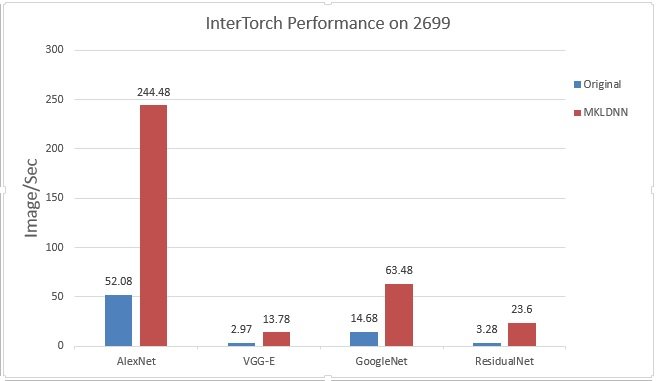
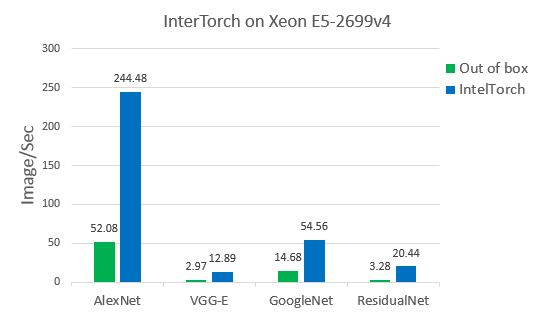
udpate performance

diff --git a/README.md b/README.md
@@ -1,10 +1,10 @@
-# Torch-MKLDNN-benchmark
+# IntelTorch-benchmark
 
-To run the original performance, use: th benchmark_nn.lua
+To run the original Torch performance, use: th benchmark_nn.lua
 
-To run the Torch+MKLDNN performance, use: ./run.sh or th benchmark_mkldnn.lua
+To run the IntelTorch performance, use: ./run.sh or th benchmark_mkldnn.lua
 
-Performance of Torch+MKLDNN compared with original torch is as follows:
+Compared to the original Torch, Intel Torch gets 4.66x speedup.The performance is as follows:
 
 ##Environment:
 
@@ -13,10 +13,6 @@ Hardware: 2 * Intel(R) Xeon(R) CPU E5-2699 v4 @ 2.20GHz, 128G RAM
 Software:Ubuntu 14.04.4, MKL 2017beta.
 
 ## Performance
-
-The performance is the time(ms):
-
-![Alt text](performance/table.jpg)
 
 ![Performance chart](performance/chart.jpg)
 
